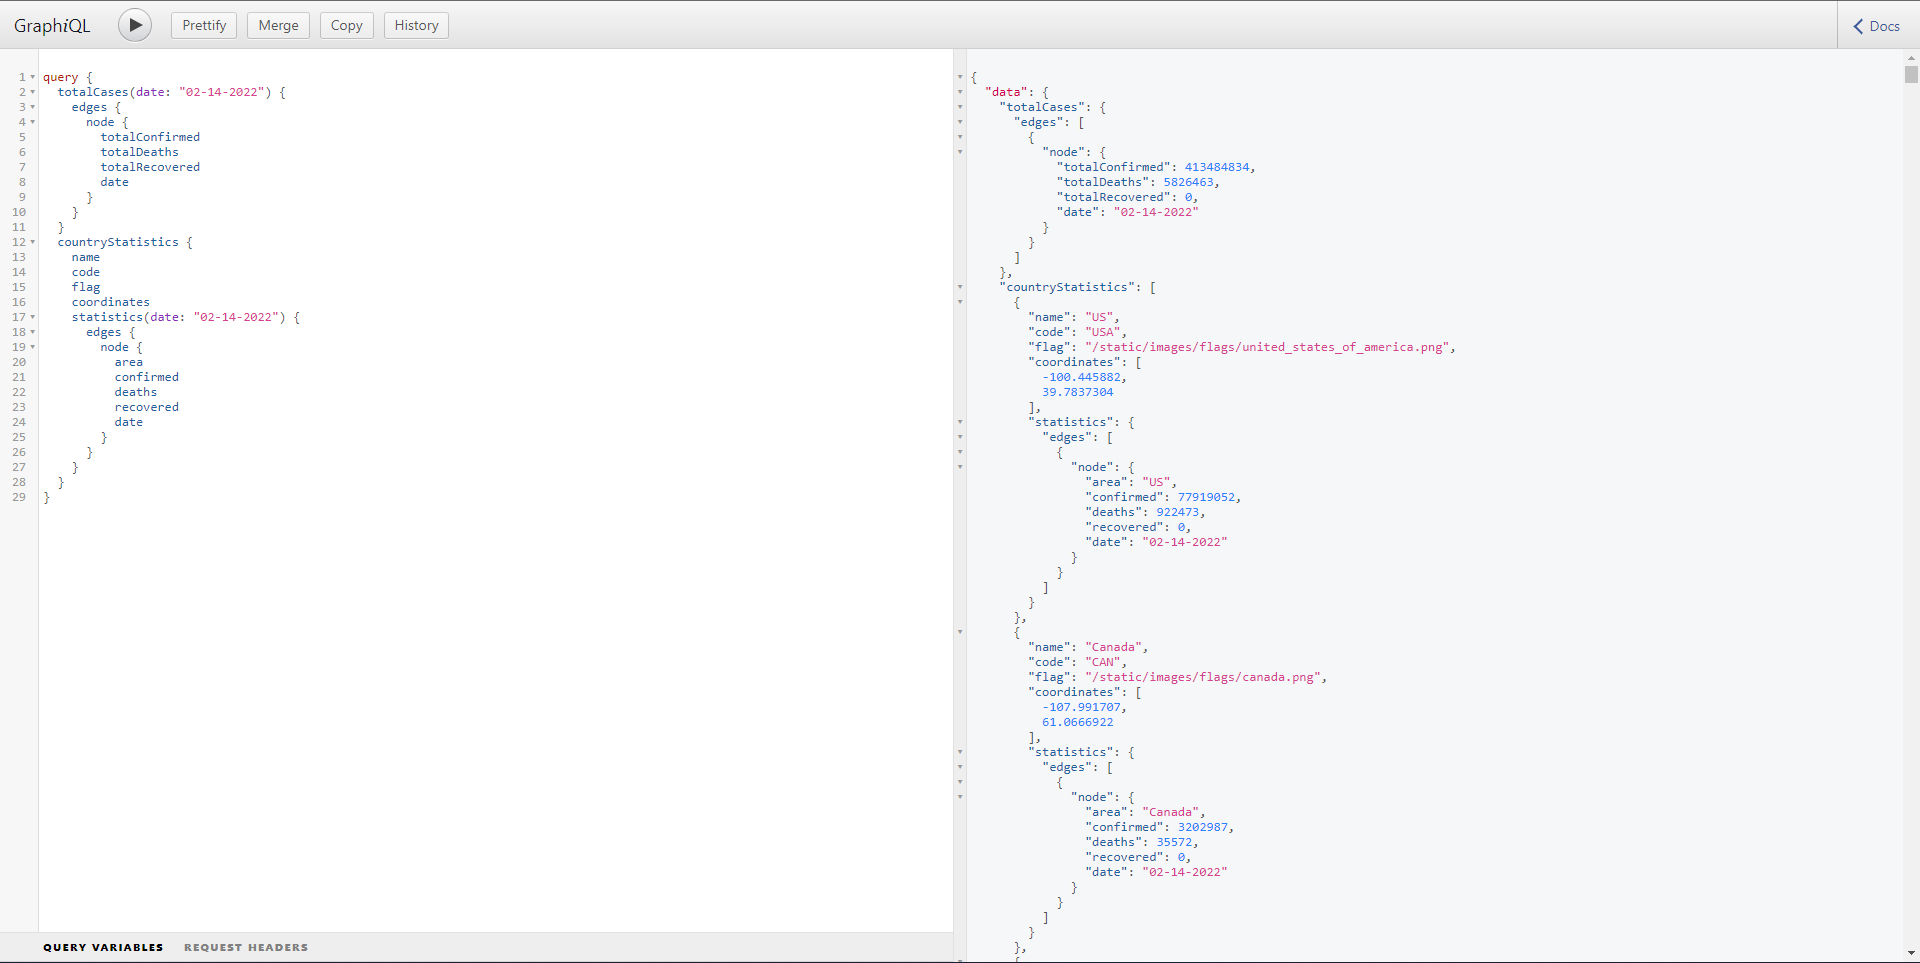
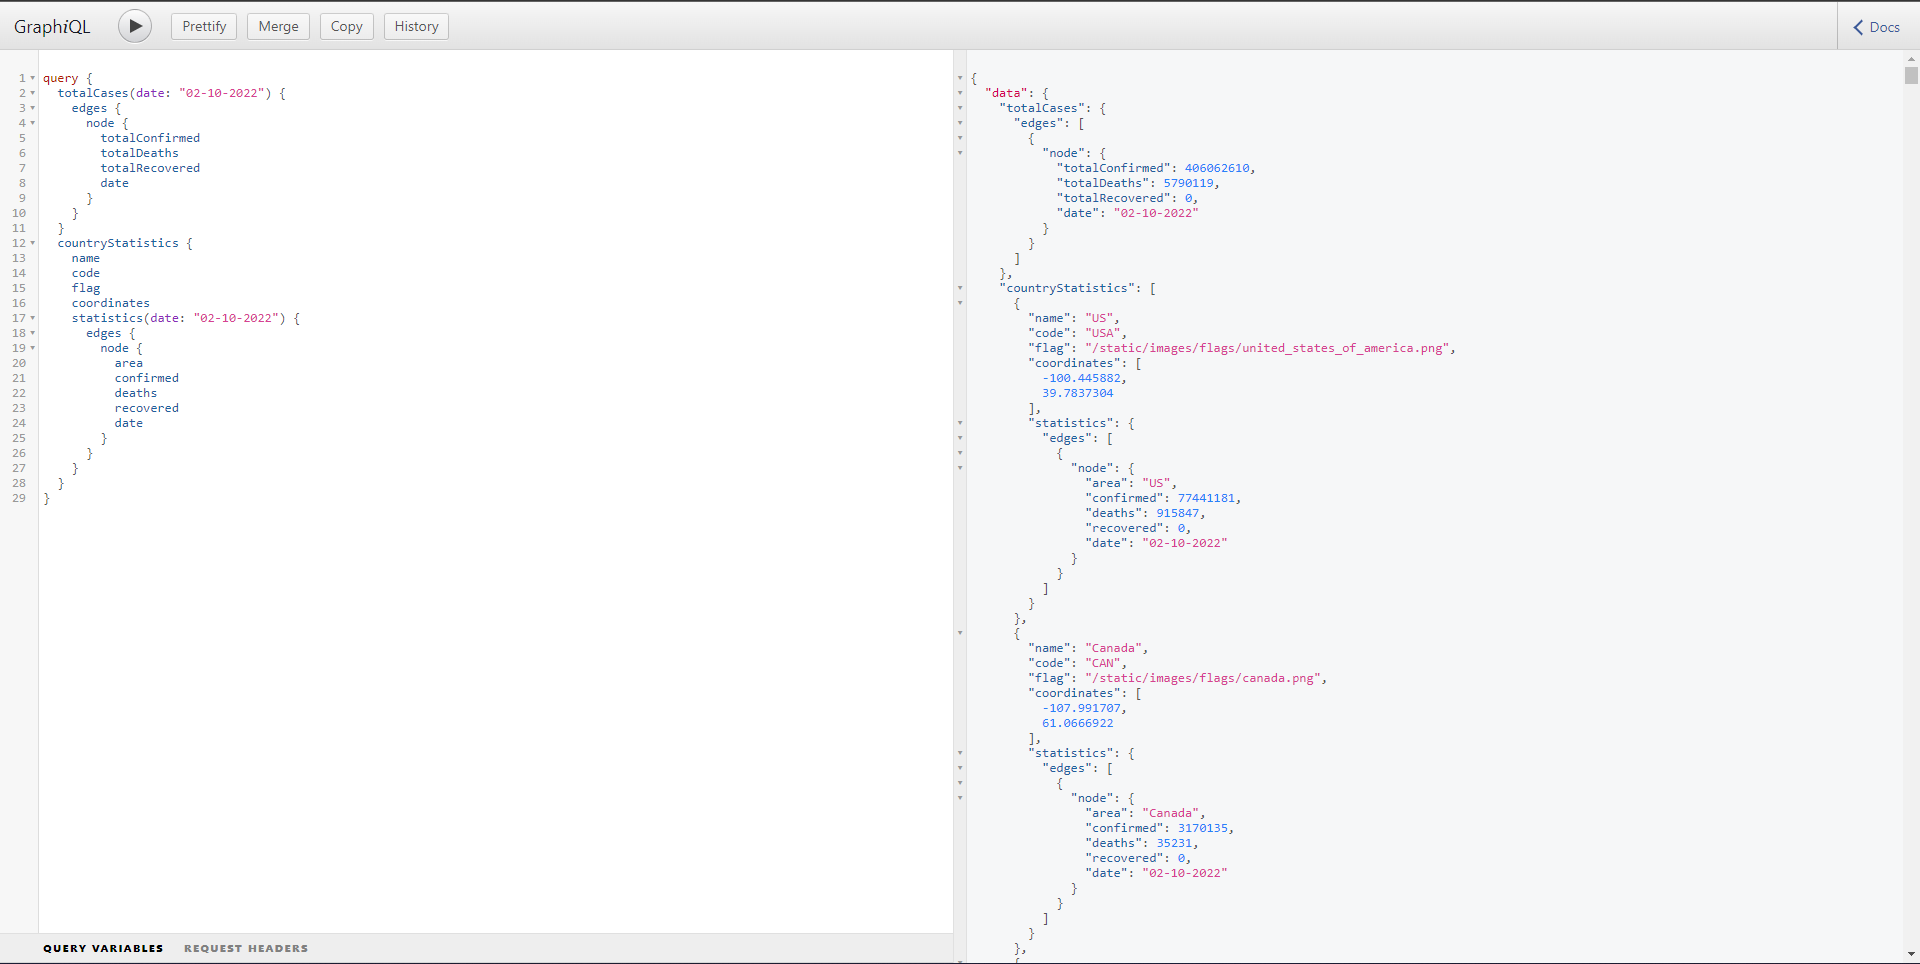
README Updated

diff --git a/README.md b/README.md
@@ -98,14 +98,14 @@ Open http://127.0.0.1:8000/graphql on your browser
 
 ### Query
 
-This is a sample query to get the covid statistics of the `02-14-2022` date and using this query, it will populate two different sets of data.
+This is a sample query to get the covid statistics of the `02-10-2022` date and using this query, it will populate two different sets of data.
 
 1. Total Cases around the world - (totalCases)
 2. Statistics of all countries - (countryStatistics)
 
 ````````````````````````````````````````````````````
 query {
-  totalCases(date: "02-14-2022") {
+  totalCases(date: "02-10-2022") {
     edges {
       node {
         totalConfirmed
@@ -120,7 +120,7 @@ query {
     code
     flag
     coordinates
-    statistics(date: "02-14-2022") {
+    statistics(date: "02-10-2022") {
       edges {
         node {
           area
